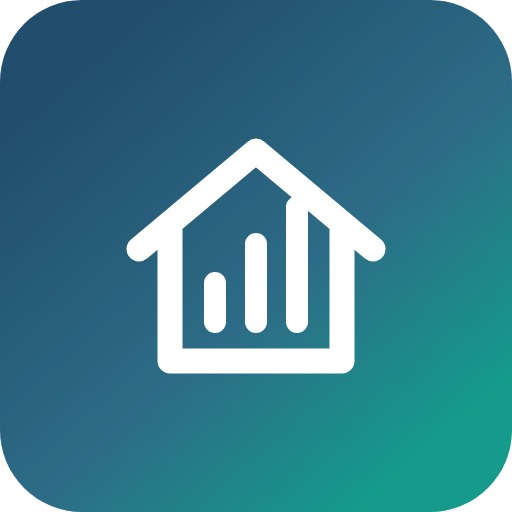
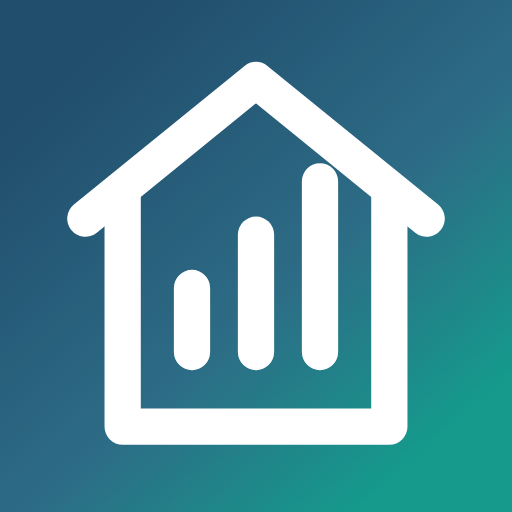
feat: unify Together iconography and brand mark

diff --git a/src/app/components/Layout.tsx b/src/app/components/Layout.tsx
@@ -1,17 +1,16 @@
 import { ReactNode, useEffect, useState } from "react";
 import { Link, useLocation } from "react-router";
-import {
-  Home,
-  CreditCard,
-  Calendar,
-  UserCircle,
-  ChartNoAxesCombined,
-  Target,
-  Moon,
-  Sun,
-} from "lucide-react";
+import { Moon, Sun } from "lucide-react";
 import { useFinance } from "../context/FinanceContext";
 import { FinancialOnboarding } from "./FinancialOnboarding";
+import {
+  CommitmentsIcon,
+  CurrentCycleIcon,
+  HouseholdIcon,
+  MilestonesIcon,
+  ProjectionIcon,
+  TogetherMarkIcon,
+} from "./TogetherIcons";
 
 interface LayoutProps {
   children: ReactNode;
@@ -40,11 +39,11 @@ export function Layout({ children }: LayoutProps) {
   }, [darkMode]);
 
   const navItems = [
-    { to: "/", label: "Hoje", icon: Home },
-    { to: "/goals", label: "Metas", icon: Target },
-    { to: "/installments", label: "Cartões e parcelas", icon: CreditCard },
-    { to: "/future", label: "Impacto futuro", icon: Calendar },
-    { to: "/settings", label: "Perfil", icon: UserCircle },
+    { to: "/", label: "Hoje", icon: CurrentCycleIcon },
+    { to: "/goals", label: "Metas", icon: MilestonesIcon },
+    { to: "/installments", label: "Cartões e parcelas", icon: CommitmentsIcon },
+    { to: "/future", label: "Impacto futuro", icon: ProjectionIcon },
+    { to: "/settings", label: "Perfil", icon: HouseholdIcon },
   ];
 
   return (
@@ -64,7 +63,7 @@ export function Layout({ children }: LayoutProps) {
           <div className="grid h-20 grid-cols-[auto_minmax(0,1fr)_auto] items-center gap-2 lg:flex lg:h-16 lg:justify-between">
             <Link to="/" className="flex min-w-0 shrink-0 items-center gap-2">
               <div className="together-brand-mark flex h-10 w-10 items-center justify-center rounded-2xl bg-gradient-to-br from-emerald-400 to-teal-600 shadow-sm lg:h-8 lg:w-8 lg:rounded-xl">
-                <ChartNoAxesCombined className="h-5 w-5 text-white lg:h-4 lg:w-4" />
+                <TogetherMarkIcon className="h-5 w-5 text-white lg:h-[18px] lg:w-[18px]" />
               </div>
               <span className="hidden text-base font-semibold text-stone-900 dark:text-white min-[390px]:inline lg:text-sm">
                 Together
@@ -100,13 +99,15 @@ export function Layout({ children }: LayoutProps) {
                   <Link
                     key={to}
                     to={to}
-                    className={`together-desktop-nav-item px-3 py-2 rounded-lg text-sm transition-colors ${
+                    className={`together-desktop-nav-item inline-flex items-center gap-1.5 rounded-lg px-2 py-1.5 text-sm transition-colors ${
                       isActive(to)
                         ? "bg-stone-100 text-stone-900"
                         : "text-stone-600 hover:text-stone-900 hover:bg-stone-50 dark:text-stone-300 dark:hover:bg-stone-800 dark:hover:text-white"
                     }`}
                   >
-                    <Icon className="w-4 h-4 inline mr-1.5" />
+                    <span className="together-nav-glyph">
+                      <Icon className="h-[17px] w-[17px]" />
+                    </span>
                     <span className="hidden sm:inline">{label}</span>
                   </Link>
                 ))}
@@ -138,7 +139,9 @@ export function Layout({ children }: LayoutProps) {
                   : "text-stone-500 hover:bg-stone-50 hover:text-stone-900 dark:text-stone-400 dark:hover:bg-stone-900 dark:hover:text-white"
               }`}
             >
-              <Icon className="h-5 w-5" />
+              <span className="together-nav-glyph">
+                <Icon className="h-5 w-5" />
+              </span>
               <span className="max-w-full truncate">
                 {label === "Impacto futuro"
                   ? "Futuro"

diff --git a/src/styles/index.css b/src/styles/index.css
@@ -431,9 +431,37 @@ section.rounded-2xl,
 }
 
 .together-desktop-nav-item.bg-stone-100 {
-  background: var(--together-primary-soft);
+  background: transparent;
   color: var(--together-primary);
-  box-shadow: inset 0 -2px 0 var(--together-primary);
+  box-shadow: none;
+}
+
+.together-nav-glyph {
+  display: inline-grid;
+  width: 1.75rem;
+  height: 1.75rem;
+  flex: 0 0 auto;
+  place-items: center;
+  border: 1px solid color-mix(in srgb, var(--together-primary) 14%, var(--together-border));
+  border-radius: 0.5rem;
+  background: var(--together-surface);
+  color: var(--together-muted);
+  transition:
+    color 160ms ease,
+    border-color 160ms ease,
+    background-color 160ms ease,
+    transform 160ms ease;
+}
+
+.together-desktop-nav-item:hover .together-nav-glyph {
+  border-color: color-mix(in srgb, var(--together-primary) 34%, var(--together-border));
+  color: var(--together-primary);
+}
+
+.together-desktop-nav-item.bg-stone-100 .together-nav-glyph {
+  border-color: var(--together-primary);
+  background: var(--together-primary);
+  color: #fff;
 }
 
 .together-theme-toggle {
@@ -453,8 +481,26 @@ section.rounded-2xl,
 }
 
 .together-bottom-nav-item.bg-emerald-50 {
-  background: var(--together-primary-soft);
+  background: transparent;
   color: var(--together-primary);
+}
+
+.together-bottom-nav-item .together-nav-glyph {
+  width: 2rem;
+  height: 1.75rem;
+  border-color: transparent;
+  background: transparent;
+}
+
+.together-bottom-nav-item:hover .together-nav-glyph {
+  background: var(--together-surface-muted);
+  color: var(--together-primary);
+}
+
+.together-bottom-nav-item.bg-emerald-50 .together-nav-glyph {
+  border-color: var(--together-primary);
+  background: var(--together-primary);
+  color: #fff;
 }
 
 .together-bottom-nav-item.bg-emerald-50::before {
@@ -801,8 +847,15 @@ section.rounded-2xl,
 
 .dark .together-desktop-nav-item.bg-stone-100,
 .dark .together-bottom-nav-item.bg-emerald-50 {
-  background: var(--together-primary-soft) !important;
+  background: transparent !important;
   color: var(--together-primary) !important;
+}
+
+.dark .together-desktop-nav-item.bg-stone-100 .together-nav-glyph,
+.dark .together-bottom-nav-item.bg-emerald-50 .together-nav-glyph {
+  border-color: var(--together-primary);
+  background: var(--together-primary);
+  color: #071019;
 }
 
 .dark .together-summary-card {

diff --git a/src/app/components/TogetherIcons.tsx b/src/app/components/TogetherIcons.tsx
@@ -1,0 +1,83 @@
+import type { PropsWithChildren, SVGProps } from "react";
+
+type TogetherIconProps = Omit<SVGProps<SVGSVGElement>, "children">;
+
+function IconFrame({ children, ...props }: PropsWithChildren<TogetherIconProps>) {
+  return (
+    <svg
+      viewBox="0 0 24 24"
+      fill="none"
+      stroke="currentColor"
+      strokeWidth="1.7"
+      strokeLinecap="round"
+      strokeLinejoin="round"
+      aria-hidden="true"
+      focusable="false"
+      {...props}
+    >
+      {children}
+    </svg>
+  );
+}
+
+export function TogetherMarkIcon(props: TogetherIconProps) {
+  return (
+    <IconFrame {...props}>
+      <path d="m4 10.25 8-6.5 8 6.5" />
+      <path d="M5.75 8.85V20h12.5V8.85" />
+      <path d="M9 16.5v-3M12 16.5V11M15 16.5v-8" />
+    </IconFrame>
+  );
+}
+
+export function CurrentCycleIcon(props: TogetherIconProps) {
+  return (
+    <IconFrame {...props}>
+      <rect x="4" y="5.5" width="16" height="14" rx="2.5" />
+      <path d="M8 3.5v4M16 3.5v4M4 9.5h16" />
+      <path d="M7.5 15h2l1.7-2.4 1.8 3.9 1.5-2H17" />
+    </IconFrame>
+  );
+}
+
+export function MilestonesIcon(props: TogetherIconProps) {
+  return (
+    <IconFrame {...props}>
+      <path d="M5 20V4" />
+      <path d="M5 5h10l-1.75 3L15 11H5" />
+      <path d="M8.5 19h3v-3h3v-3h3" />
+    </IconFrame>
+  );
+}
+
+export function CommitmentsIcon(props: TogetherIconProps) {
+  return (
+    <IconFrame {...props}>
+      <path d="M7 7V6.5A2.5 2.5 0 0 1 9.5 4h7A2.5 2.5 0 0 1 19 6.5V15" />
+      <rect x="4" y="7" width="16" height="12" rx="2.5" />
+      <path d="M4 11h16M8 15h4" />
+    </IconFrame>
+  );
+}
+
+export function ProjectionIcon(props: TogetherIconProps) {
+  return (
+    <IconFrame {...props}>
+      <path d="M4.5 4.5v15h15" />
+      <path d="m7 16 3.5-3.5 3 1.5L19 8.5" />
+      <path d="M15.5 8.5H19V12" />
+    </IconFrame>
+  );
+}
+
+export function HouseholdIcon(props: TogetherIconProps) {
+  return (
+    <IconFrame {...props}>
+      <path d="m3.5 10.5 8.5-6.5 8.5 6.5" />
+      <path d="M5.5 9v11h13V9" />
+      <circle cx="9.5" cy="12.5" r="1.4" />
+      <circle cx="14.5" cy="12.5" r="1.4" />
+      <path d="M7.5 18c.3-2 1-3 2-3s1.7 1 2 3M12.5 18c.3-2 1-3 2-3s1.7 1 2 3" />
+    </IconFrame>
+  );
+}

diff --git a/src/app/components/LoginPage.tsx b/src/app/components/LoginPage.tsx
@@ -1,10 +1,11 @@
 import { useMemo, useState } from "react";
-import { ArrowRight, Check, ChartNoAxesCombined, Lock, Mail, ShieldQuestion } from "lucide-react";
+import { ArrowRight, Check, Lock, Mail, ShieldQuestion } from "lucide-react";
 import { Link, Navigate, useLocation, useNavigate } from "react-router";
 import { Button } from "./ui/button";
 import { Input } from "./ui/input";
 import { useAuth } from "../context/AuthContext";
 import { AuthLayout } from "./AuthLayout";
+import { TogetherMarkIcon } from "./TogetherIcons";
 
 const highlights = ["Gastos compartilhados", "Controle de parcelas", "Projeção financeira do mês"];
 
@@ -34,7 +35,7 @@ export function LoginPage() {
     <AuthLayout>
       <div className="together-auth-page w-full max-w-[455px] text-center">
         <div className="together-auth-mark mx-auto mb-8 flex h-14 w-14 items-center justify-center rounded-2xl bg-[#00b88a] shadow-[0_16px_28px_rgba(0,184,138,0.18)]">
-          <ChartNoAxesCombined className="h-7 w-7 text-white" strokeWidth={1.8} />
+          <TogetherMarkIcon className="h-8 w-8 text-white" />
         </div>
 
         <h1 className="mx-auto max-w-[18ch] text-[2.25rem] font-medium leading-[1.08] tracking-[-0.04em] text-[#111827] sm:text-[3rem]">

diff --git a/src/app/components/RegisterPage.tsx b/src/app/components/RegisterPage.tsx
@@ -1,10 +1,11 @@
 import { useState } from "react";
-import { ArrowRight, ChartNoAxesCombined, Lock, Mail, ShieldQuestion, User } from "lucide-react";
+import { ArrowRight, Lock, Mail, ShieldQuestion, User } from "lucide-react";
 import { Link, Navigate, useNavigate } from "react-router";
 import { Button } from "./ui/button";
 import { Input } from "./ui/input";
 import { useAuth } from "../context/AuthContext";
 import { AuthLayout } from "./AuthLayout";
+import { TogetherMarkIcon } from "./TogetherIcons";
 
 export function RegisterPage() {
   const [name, setName] = useState("");
@@ -30,7 +31,7 @@ export function RegisterPage() {
     <AuthLayout>
       <div className="together-auth-page w-full max-w-[455px] text-center">
         <div className="together-auth-mark mx-auto mb-8 flex h-14 w-14 items-center justify-center rounded-2xl bg-[#00b88a] shadow-[0_16px_28px_rgba(0,184,138,0.18)]">
-          <ChartNoAxesCombined className="h-7 w-7 text-white" strokeWidth={1.8} />
+          <TogetherMarkIcon className="h-8 w-8 text-white" />
         </div>
 
         <h1 className="mx-auto max-w-[18ch] text-[2.25rem] font-medium leading-[1.08] tracking-[-0.04em] text-[#111827] sm:text-[3rem]">

diff --git a/index.html b/index.html
@@ -16,10 +16,10 @@
     <meta name="mobile-web-app-capable" content="yes" />
     <meta name="application-name" content="TogetherBr" />
     <meta name="robots" content="index, follow" />
-    <link rel="manifest" href="/manifest.webmanifest" />
-    <link rel="icon" href="/favicon.svg" type="image/svg+xml" />
-    <link rel="icon" href="/favicon.png" type="image/png" />
-    <link rel="apple-touch-icon" sizes="180x180" href="/apple-touch-icon.png" />
+    <link rel="manifest" href="/manifest.webmanifest?v=3" />
+    <link rel="icon" href="/favicon.svg?v=3" type="image/svg+xml" />
+    <link rel="icon" href="/favicon.png?v=3" type="image/png" />
+    <link rel="apple-touch-icon" sizes="180x180" href="/apple-touch-icon.png?v=3" />
     <style>
       html,
       body {
